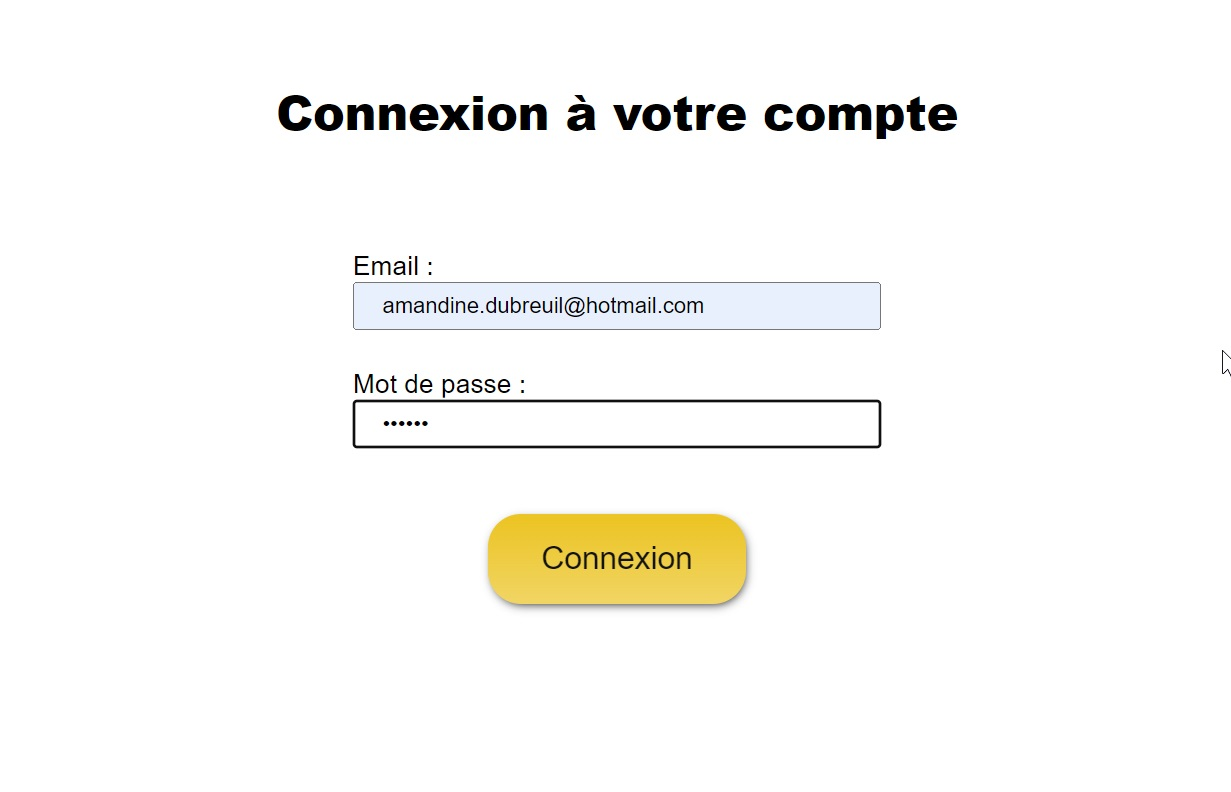
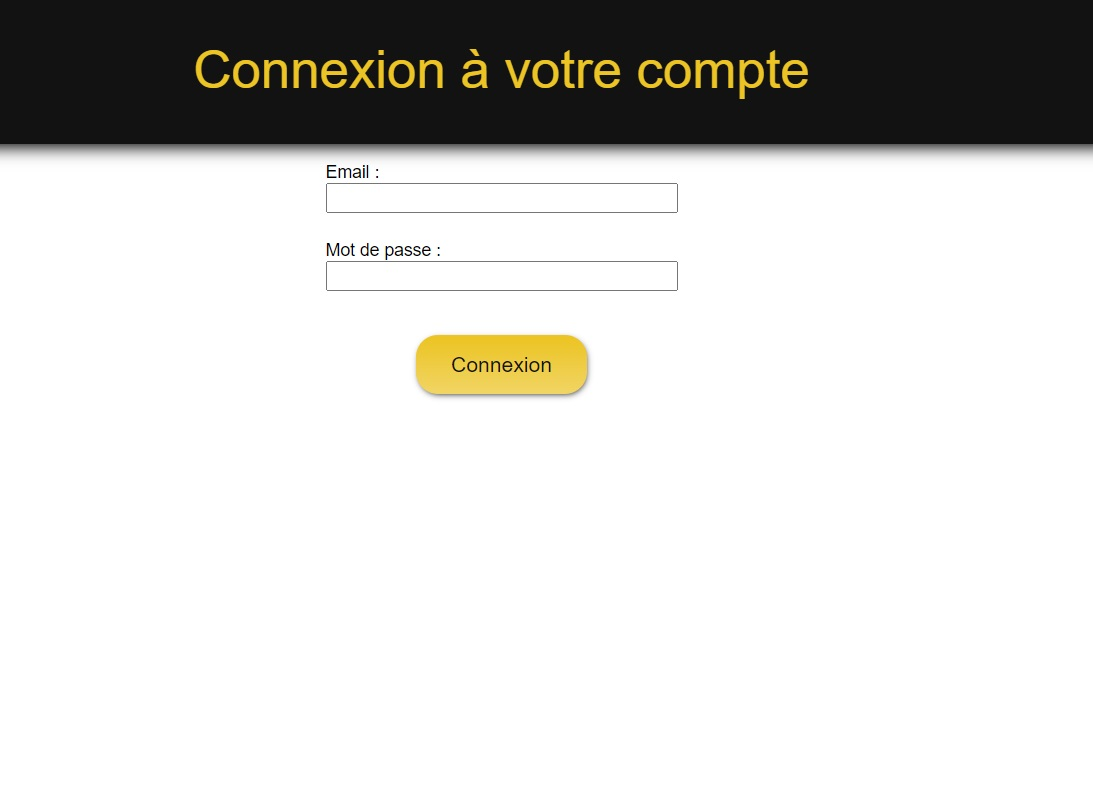
css formulaire ajout

diff --git a/assets/css/style.css b/assets/css/style.css
@@ -168,17 +168,17 @@ nav > p {
   border-radius: 5px;
 }
 
-/* formulaire connexion register */
+/* formulaire connexion register ajout */
 
 .formConnexion,
-.formRegister {
+.formRegister, .formAjout {
 width: 30rem;
   margin: auto;
   display: flex;
   flex-direction: column;
   align-items: center;
 }
-.formConnexion > div
+.formConnexion > div, .formAjout >div
  {
   display: flex;
   flex-direction: column;
@@ -189,7 +189,7 @@ width: 30rem;
 #last_name,
 #first_name,
 #address, #postal_code, #town,
-#phone {
+#phone, #title, #description, #price, #surface, #room {
   padding: 0.3rem 1rem;
 }
 #email,
@@ -227,7 +227,22 @@ flex-direction: column;
   flex-direction: row;
   justify-content: space-evenly;
  }
- 
+
+ /* ajout annonce  */
+.formAjout{
+  align-items: start;
+}
+#description{
+  width: 30rem;
+  height: 10rem;
+}
+
+
+.formAjout .locVent, .formAjout .annulAjout{
+  flex-direction: row;
+  justify-content: space-between;
+}
+
 
 /* footer */
 footer {

diff --git a/view/adminImmobellier/ajoutView.php b/view/adminImmobellier/ajoutView.php
@@ -10,8 +10,8 @@
 
 <body>
     <main class="container">
-        <h2>Nouvelle Annonce</h2>
-        <form method="POST" action="" enctype="multipart/form-data" class="form" novalidate>
+        <h1>Nouvelle Annonce</h1>
+        <form method="POST" action="" enctype="multipart/form-data" class="formAjout" novalidate>
             <div>
                 <label for="title">Titre de l'annonce :</label>
                 <input type="text" name="title" id="title" value="<?= $title ?>">
@@ -24,7 +24,7 @@
                 <label for="imageUpload">Image :</label>
                 <input type="file" name="imageUpload" id="imageUpload" value="<?= $imageUpload ?>">
             </div>
-            <div>
+            <div class="locVent">
                 <label for="type">Type de transaction :</label>
                 Vente <input type="radio" name="type" id="type" value="Vente" checked>
                 Location <input type="radio" name="type" id="type" value="Location">
@@ -49,9 +49,9 @@
                     <option value="5">5</option>
                 </select>
             </div>
-            <div>
-                <input type="submit" name="ajout" value="Ajouter">
-                <a href="../"><button type="button">Annuler</button></a>
+            <div class="annulAjout">
+                <a href="../"><button class="btnInput" type="button">Annuler</button></a>
+                <input class="btn" type="submit" name="ajout" value="Ajouter">
             </div>
             <?php if (!empty($errors)) : ?>
                 <div class="errors">

diff --git a/view/login/indexView.php b/view/login/indexView.php
@@ -10,7 +10,7 @@
 
 <body>
     <main class="container">
-        <h2>Connexion à votre compte</h2>
+        <h1>Connexion à votre compte</h1>
         <form method="POST" class="formConnexion">
             <div>
                 <label for="email">Email :</label>
